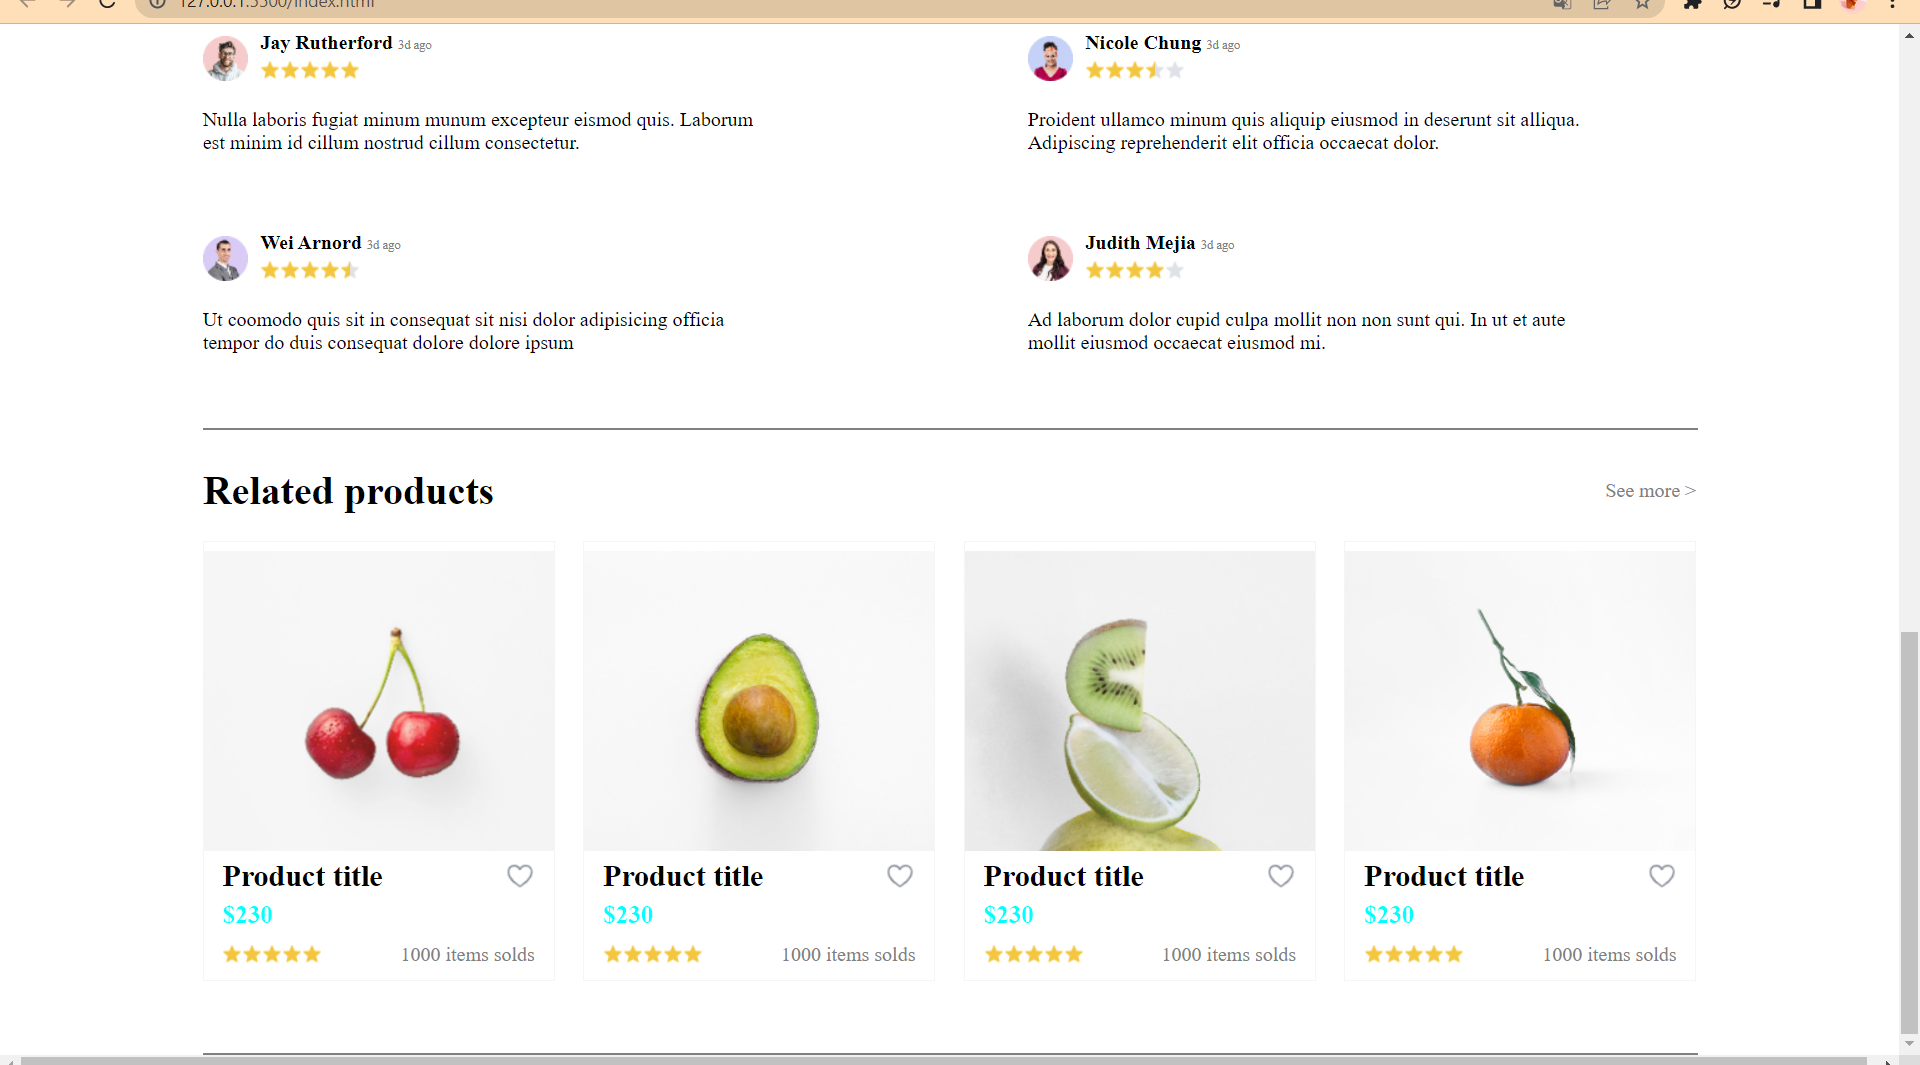
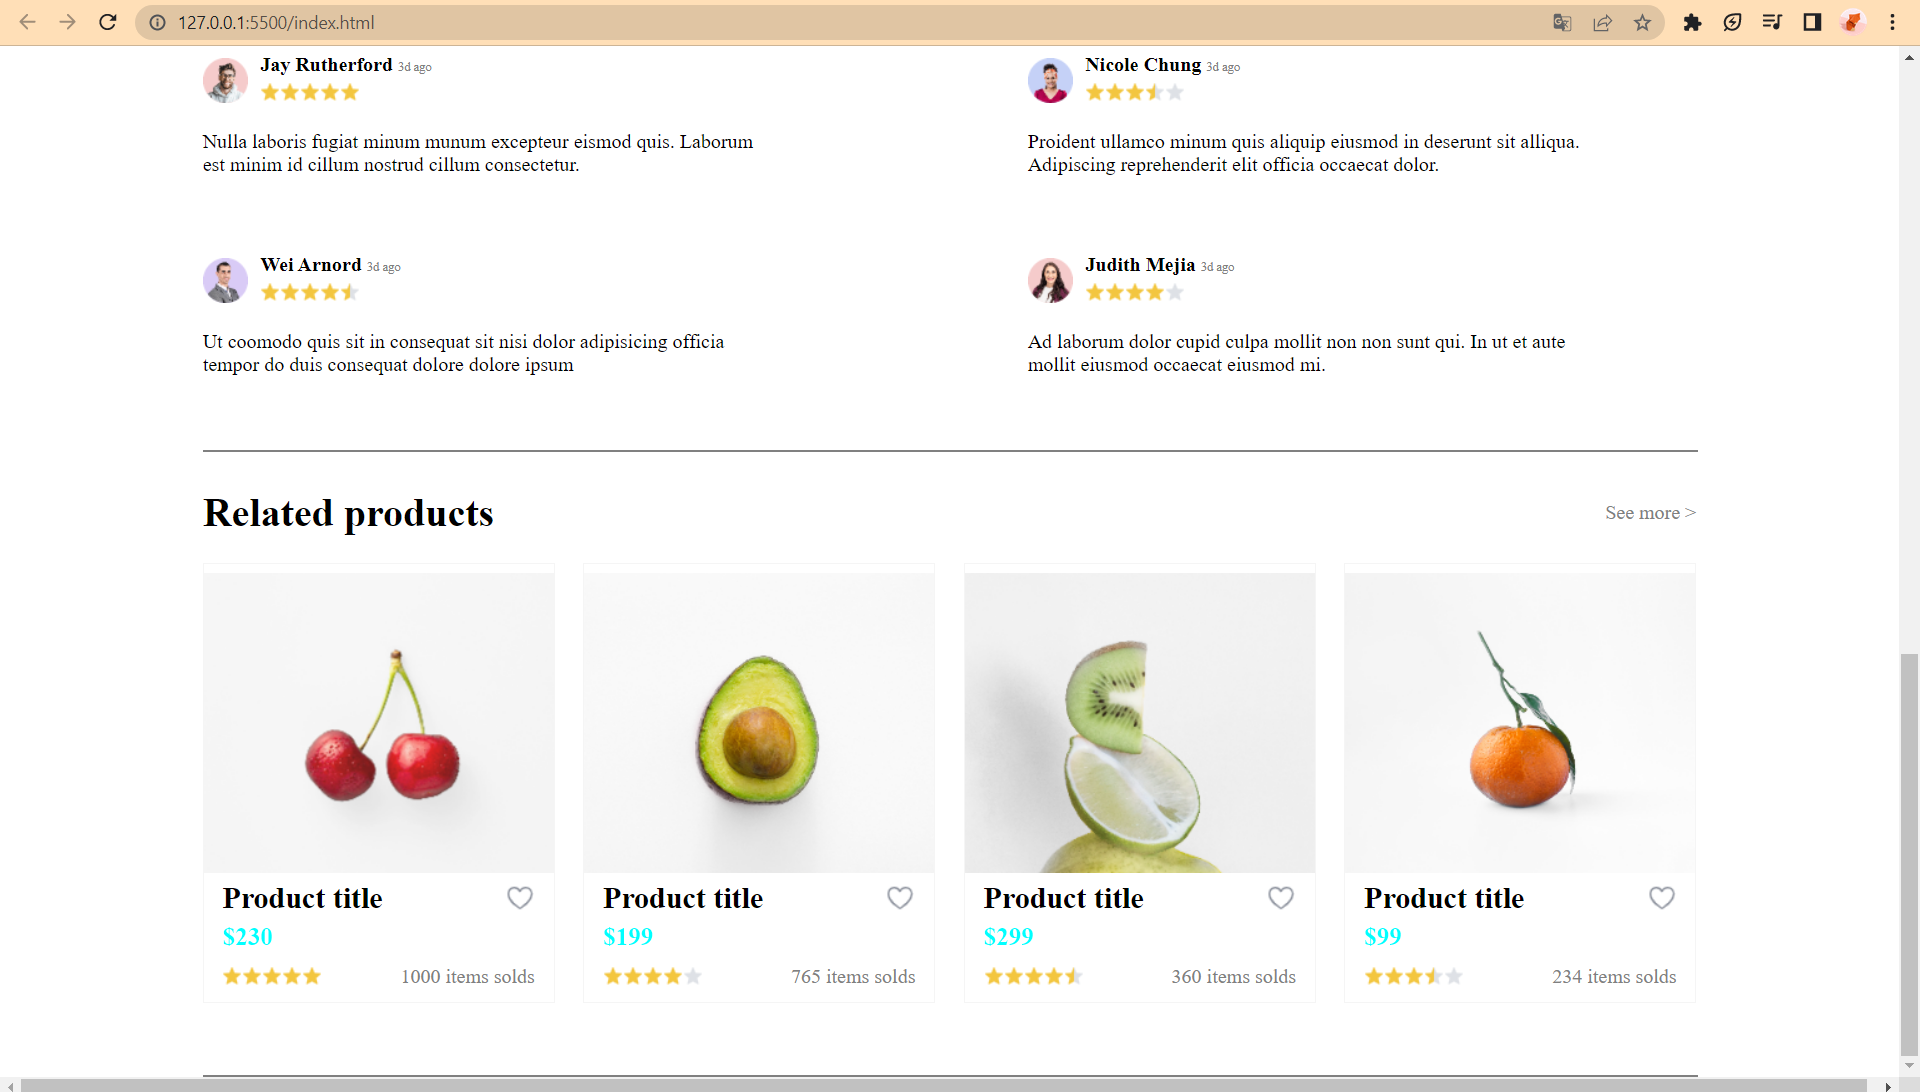
Center_Relatedproducts+MinhChung

diff --git a/index.html b/index.html
@@ -210,10 +210,10 @@
                         <h2>Product title</h2>
                         <img src="img/Heart 23.png" alt="">
                     </div>
-                    <span class="span"><b>$230</b></span>
+                    <span class="span"><b>$199</b></span>
                     <div class="title">
-                        <img src="img/Rating 300.png" alt="">
-                        <span style="color:grey">1000 items solds</span>
+                        <img src="img/Rating 299.png" alt="">
+                        <span style="color:grey">765 items solds</span>
 
                     </div>
                 </div>
@@ -223,10 +223,10 @@
                         <h2>Product title</h2>
                         <img src="img/Heart 23.png" alt="">
                     </div>
-                    <span class="span"><b>$230</b></span>
+                    <span class="span"><b>$299</b></span>
                     <div class="title">
-                        <img src="img/Rating 300.png" alt="">
-                        <span style="color:grey">1000 items solds</span>
+                        <img src="img/Rating 303.png" alt="">
+                        <span style="color:grey">360 items solds</span>
 
                     </div>
                 </div>
@@ -236,18 +236,19 @@
                         <h2>Product title</h2>
                         <img src="img/Heart 23.png" alt="">
                     </div>
-                    <span class="span"><b>$230</b></span>
+                    <span class="span"><b>$99</b></span>
                     <div class="title">
-                        <img src="img/Rating 300.png" alt="">
-                        <span style="color:grey">1000 items solds</span>
+                        <img src="img/Rating 305.png" alt="">
+                        <span style="color:grey">234 items solds</span>
 
                     </div>
                 </div>
 
             </div>
             <div>
-                <hr width="100%" color="grey"
+                <hr width="100%" color="grey">
             </div>
+            
         </div>
         <div id="footer">
 
